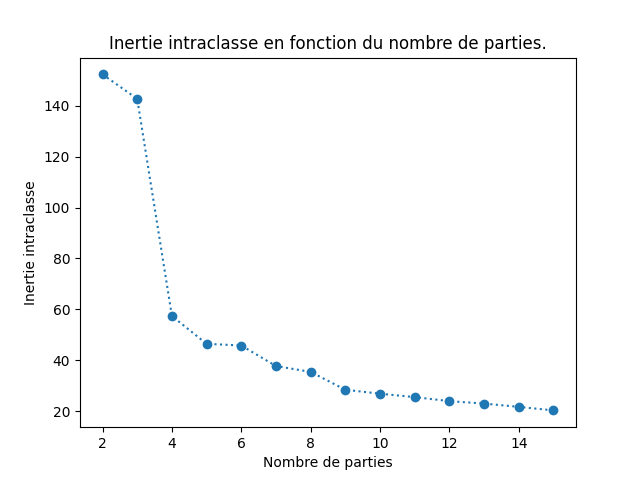
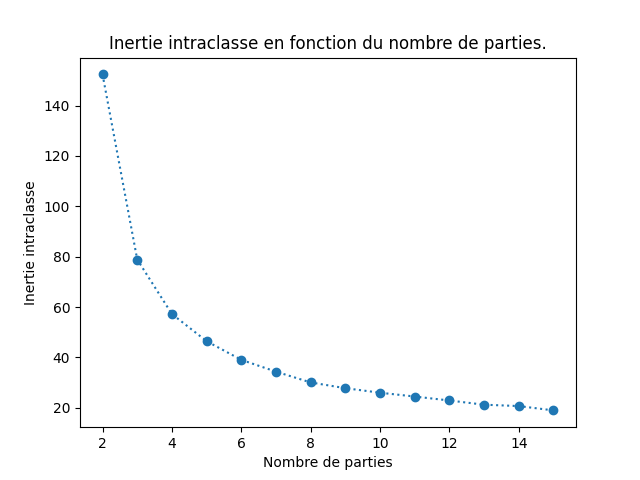
update

diff --git a/ensg/miashs/l3-sd3/tps/partitionnement/correction.html b/ensg/miashs/l3-sd3/tps/partitionnement/correction.html
@@ -368,7 +368,20 @@ draw_silhouettes (les_silhouettes_avg1a)</pre>
 	<li>Les iris qui sont disponibles dans scikit_learn en faisant <code>sklearn.datasets.load_iris ().data</code>. Est-ce que les centres mobiles indiquent qu'il y a 3 groupes&nbsp;? Comparer les partitions en 2, 3 et 4 groupes aux regroupement en 3 classes du jeu de données.
 
 	  <div class="correction">
-	    Pour les iris, j'obtiens 
+	    Pour les iris, j'obtiens ces deux graphiques&nbsp;:
+
+	    <br>
+
+	    <img src="iris.inerties.png" width="400pt" alt="" />
+
+	    <br>
+
+	    <img src="iris.silhouettes.png" width="400pt" alt="" />
+
+	    <br>
+
+	    Inertie et silhouette indiquent 2 groupes.
+	    
 	  </div>
 
 	</li>
